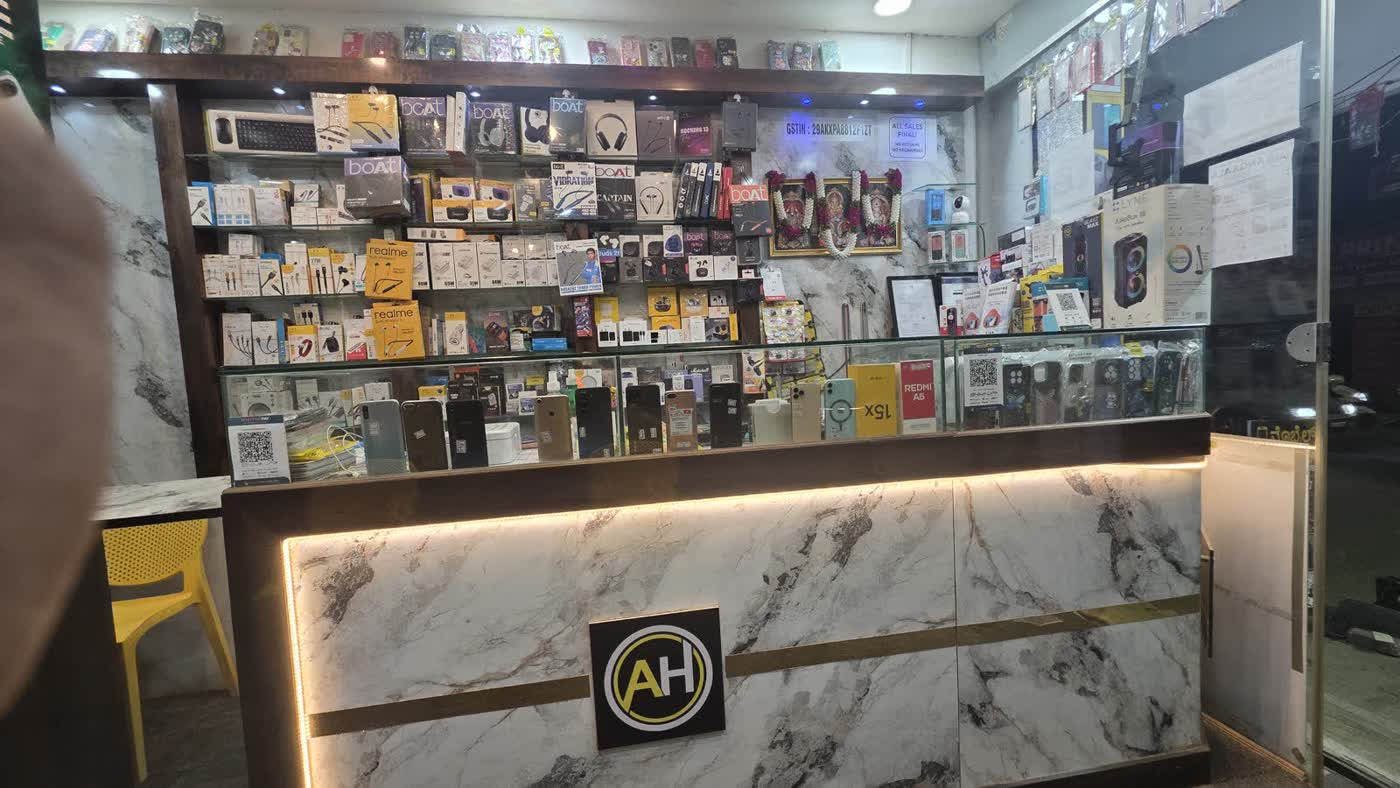
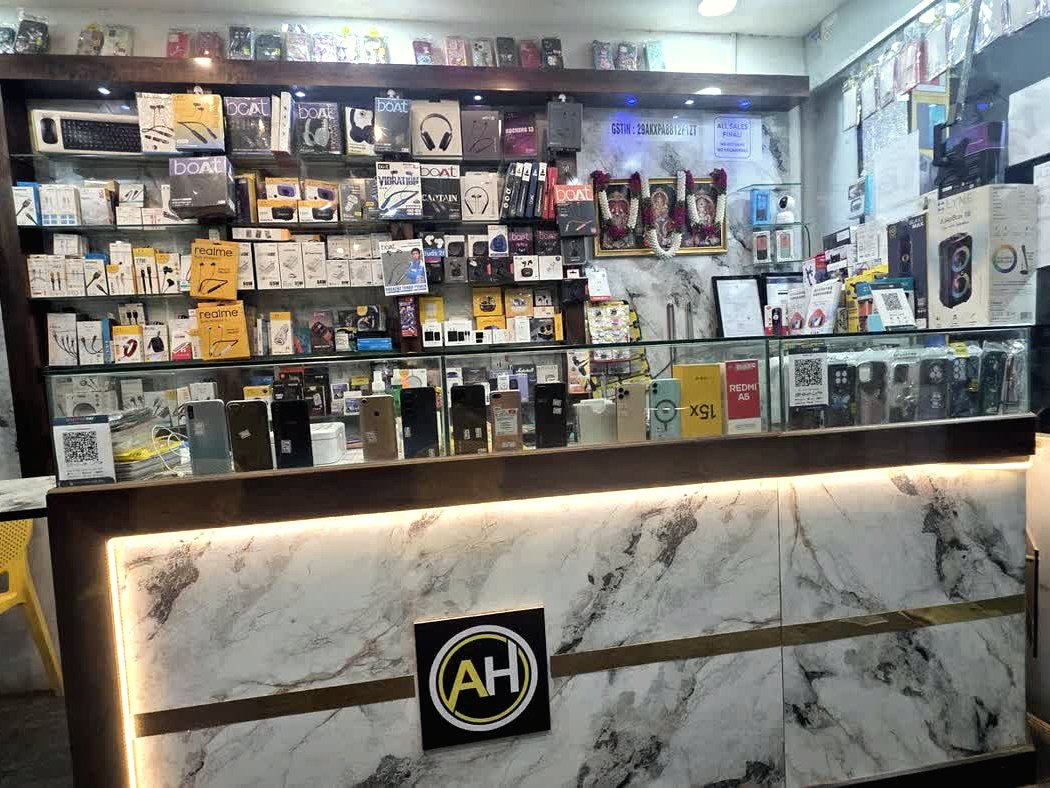
Restyle Angaala Hub photos clean and minimal
Soft crops, natural tones, and more whitespace for a calm Gen Z look.

diff --git a/index.html b/index.html
@@ -18,10 +18,7 @@
     @media(max-width:850px){nav a:not(.nav-cta){display:none}.hero-grid,.trust-grid,.contact-grid{grid-template-columns:1fr;gap:40px}.hero{padding:56px 0}.hero-visual{min-height:330px}.product-grid{grid-template-columns:repeat(2,1fr)}.trust-grid{gap:30px}.contact-grid{gap:32px}}
     @media(max-width:520px){.topbar .container{font-size:.74rem}.topbar .container span{display:none}.nav{min-height:64px}nav{gap:8px}.nav-cta{padding:9px 12px;font-size:.82rem}.hero{padding:45px 0 58px}h1{font-size:2.8rem}.hero p{font-size:1rem}.hero-note{gap:12px}.phone-card{width:245px}.floating-card{right:3px;bottom:0;width:174px;padding:13px}.product-grid,.service-grid,.trust-points{grid-template-columns:1fr}.section-head{display:block}.section-head p{margin-top:12px}.product-art{height:145px}section{padding:62px 0}.footer-row{display:block}.footer-row span{display:block;margin-top:6px}}
   
-    .gallery{background:var(--soft)}.gallery-grid{display:grid;grid-template-columns:repeat(3,1fr);gap:16px}.gallery-item{margin:0;border-radius:18px;overflow:hidden;border:1px solid var(--line);background:#fff;box-shadow:0 10px 28px rgba(224,122,18,.1)}.gallery-item img{display:block;width:100%;height:220px;object-fit:cover}.gallery-item figcaption{padding:12px 14px;font-size:.86rem;color:var(--muted);font-weight:650}
-    .hero-photo{margin-top:28px;border-radius:22px;overflow:hidden;border:1px solid var(--line);box-shadow:var(--shadow)}.hero-photo img{display:block;width:100%;max-height:360px;object-fit:cover}
-    @media(max-width:900px){.gallery-grid{grid-template-columns:repeat(2,1fr)}}
-    @media(max-width:520px){.gallery-grid{grid-template-columns:1fr}.gallery-item img{height:200px}}
+    .gallery{background:#fff;padding-top:96px;padding-bottom:96px}.gallery .section-head{margin-bottom:40px}.gallery-grid{display:grid;grid-template-columns:repeat(3,1fr);gap:28px}.gallery-item{margin:0;border-radius:16px;overflow:hidden;border:1px solid var(--line);background:#fff;box-shadow:none}.gallery-item img{display:block;width:100%;height:260px;object-fit:cover;filter:saturate(.92) contrast(.96) brightness(1.02)}.gallery-item figcaption{padding:14px 4px 0;font-size:.82rem;color:var(--muted);font-weight:550;letter-spacing:.02em}.hero-photo{margin-top:32px;border-radius:20px;overflow:hidden;border:1px solid var(--line);box-shadow:none}.hero-photo img{display:block;width:100%;max-height:380px;object-fit:cover;filter:saturate(.9) contrast(.96) brightness(1.03)}@media(max-width:900px){.gallery-grid{grid-template-columns:repeat(2,1fr);gap:20px}}@media(max-width:520px){.gallery{padding-top:64px;padding-bottom:64px}.gallery-grid{grid-template-columns:1fr}.gallery-item img{height:220px}}
 </style>
 </head>
 <body>
@@ -34,12 +31,12 @@
     <section class="trust"><div class="container trust-grid"><div><h2>Advice you can trust, from people nearby.</h2><p>At Angaala Hub, we keep things straightforward — understand your need, see the options, and choose what works for you.</p></div><div class="trust-points"><div class="trust-point"><b>Clear recommendations</b><span>No confusing jargon, just useful answers.</span></div><div class="trust-point"><b>Budget-friendly options</b><span>Good choices across different price ranges.</span></div><div class="trust-point"><b>After-sale support</b><span>Come back when you need help or a fix.</span></div><div class="trust-point"><b>Conveniently local</b><span>Easy to find near Raghavendra Circle.</span></div></div></div></section>
     
     <section class="gallery" id="gallery"><div class="container"><div class="section-head"><h2>Inside Angaala Hub</h2><p>A look at our storefront, counters, phones, and back-cover wall on Disipally Main Road.</p></div><div class="gallery-grid">
-      <figure class="gallery-item"><img src="images/storefront-1.jpg" alt="Angaala Hub storefront with brand banners" loading="lazy"><figcaption>Storefront</figcaption></figure>
-      <figure class="gallery-item"><img src="images/storefront-2.jpg" alt="Angaala Hub storefront showing services and brands" loading="lazy"><figcaption>Brands &amp; services</figcaption></figure>
-      <figure class="gallery-item"><img src="images/interior-counter.jpg" alt="Shelves of accessories and phones in the glass counter" loading="lazy"><figcaption>Shelves &amp; phones</figcaption></figure>
-      <figure class="gallery-item"><img src="images/service-counter.jpg" alt="Service counter with AH logo and phones on display" loading="lazy"><figcaption>Service counter</figcaption></figure>
-      <figure class="gallery-item"><img src="images/cases-wall.jpg" alt="Wall display of mobile phone cases and covers" loading="lazy"><figcaption>Back covers</figcaption></figure>
-      <figure class="gallery-item"><img src="images/cases-fashion.jpg" alt="Fashion phone cases on display" loading="lazy"><figcaption>Fashion cases</figcaption></figure>
+      <figure class="gallery-item"><img src="images/storefront-1.jpg?v=2" alt="Angaala Hub storefront with brand banners" loading="lazy"><figcaption>Storefront</figcaption></figure>
+      <figure class="gallery-item"><img src="images/storefront-2.jpg?v=2" alt="Angaala Hub storefront showing services and brands" loading="lazy"><figcaption>Brands &amp; services</figcaption></figure>
+      <figure class="gallery-item"><img src="images/interior-counter.jpg?v=2" alt="Shelves of accessories and phones in the glass counter" loading="lazy"><figcaption>Shelves &amp; phones</figcaption></figure>
+      <figure class="gallery-item"><img src="images/service-counter.jpg?v=2" alt="Service counter with AH logo and phones on display" loading="lazy"><figcaption>Service counter</figcaption></figure>
+      <figure class="gallery-item"><img src="images/cases-wall.jpg?v=2" alt="Wall display of mobile phone cases and covers" loading="lazy"><figcaption>Back covers</figcaption></figure>
+      <figure class="gallery-item"><img src="images/cases-fashion.jpg?v=2" alt="Fashion phone cases on display" loading="lazy"><figcaption>Fashion cases</figcaption></figure>
     </div></div></section>
 <section class="contact" id="visit"><div class="container contact-grid"><div class="contact-info"><h2>Let’s get you connected.</h2><p>Have a question about a phone, accessory, repair, or replacement? Call, message, or drop in for a friendly conversation.</p><div class="details"><div class="detail"><span class="detail-icon">⌖</span><div><b>Visit us</b><span>Disipally Main Road, near Raghavendra Circle</span></div></div><div class="detail"><span class="detail-icon">☎</span><div><b>Call or WhatsApp</b><a href="tel:+919876543210">+91 98765 43210</a></div></div><div class="detail"><span class="detail-icon">✉</span><div><b>Email</b><a href="mailto:hello@angaalahub.in">hello@angaalahub.in</a></div></div></div><div class="actions" style="margin-top:25px"><a class="btn btn-primary" href="https://wa.me/919876543210?text=Hello%20Angaala%20Hub">Message on WhatsApp</a><a class="btn btn-outline" href="mailto:hello@angaalahub.in">Email us</a></div></div><div class="contact-card"><h3>Send us a message</h3><p>We’ll get back to you through email — no account or app needed.</p><form action="mailto:hello@angaalahub.in" method="post" enctype="text/plain"><label for="name">Your name<input id="name" name="Name" autocomplete="name" required placeholder="Enter your name"></label><label for="phone">Phone number<input id="phone" name="Phone" type="tel" autocomplete="tel" required placeholder="+91 98765 43210"></label><label for="message">How can we help?<textarea id="message" name="Message" required placeholder="Tell us what you are looking for..."></textarea></label><div class="form-buttons"><button class="btn btn-primary" type="submit">Send enquiry</button><a class="btn btn-outline" href="https://wa.me/919876543210?text=Hello%20Angaala%20Hub">WhatsApp instead</a></div><p class="form-note">Your email app will open with the message ready to send.</p></form></div></div></section>
   </main>
